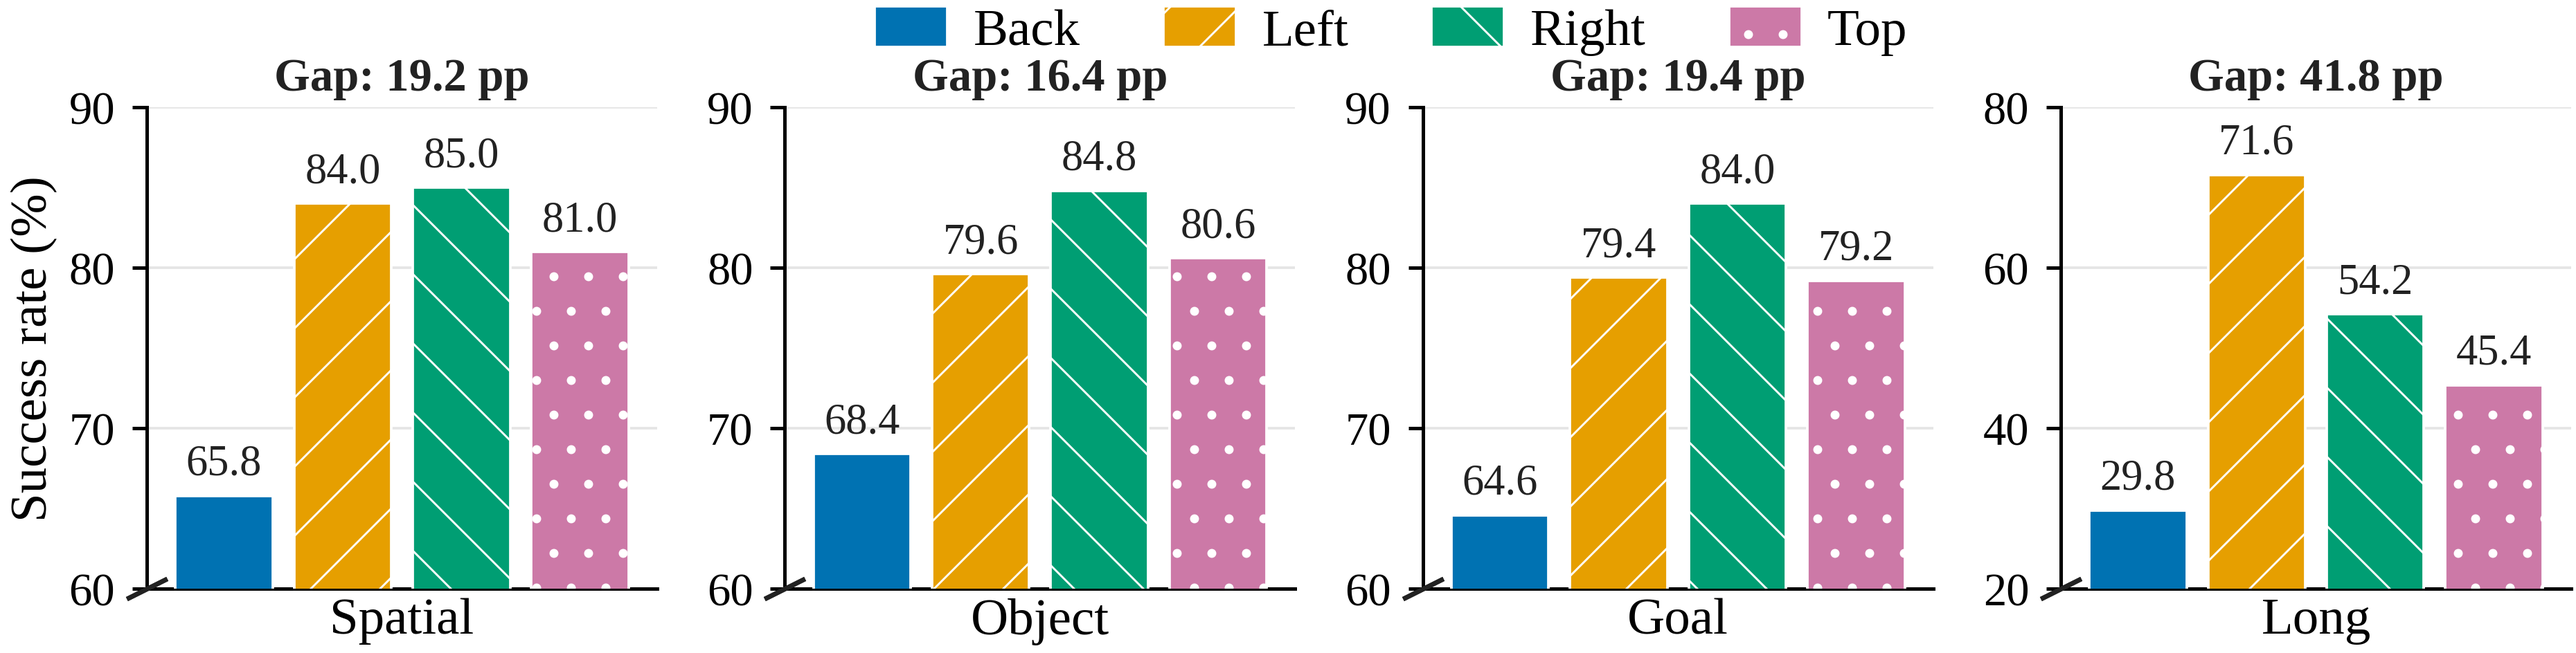
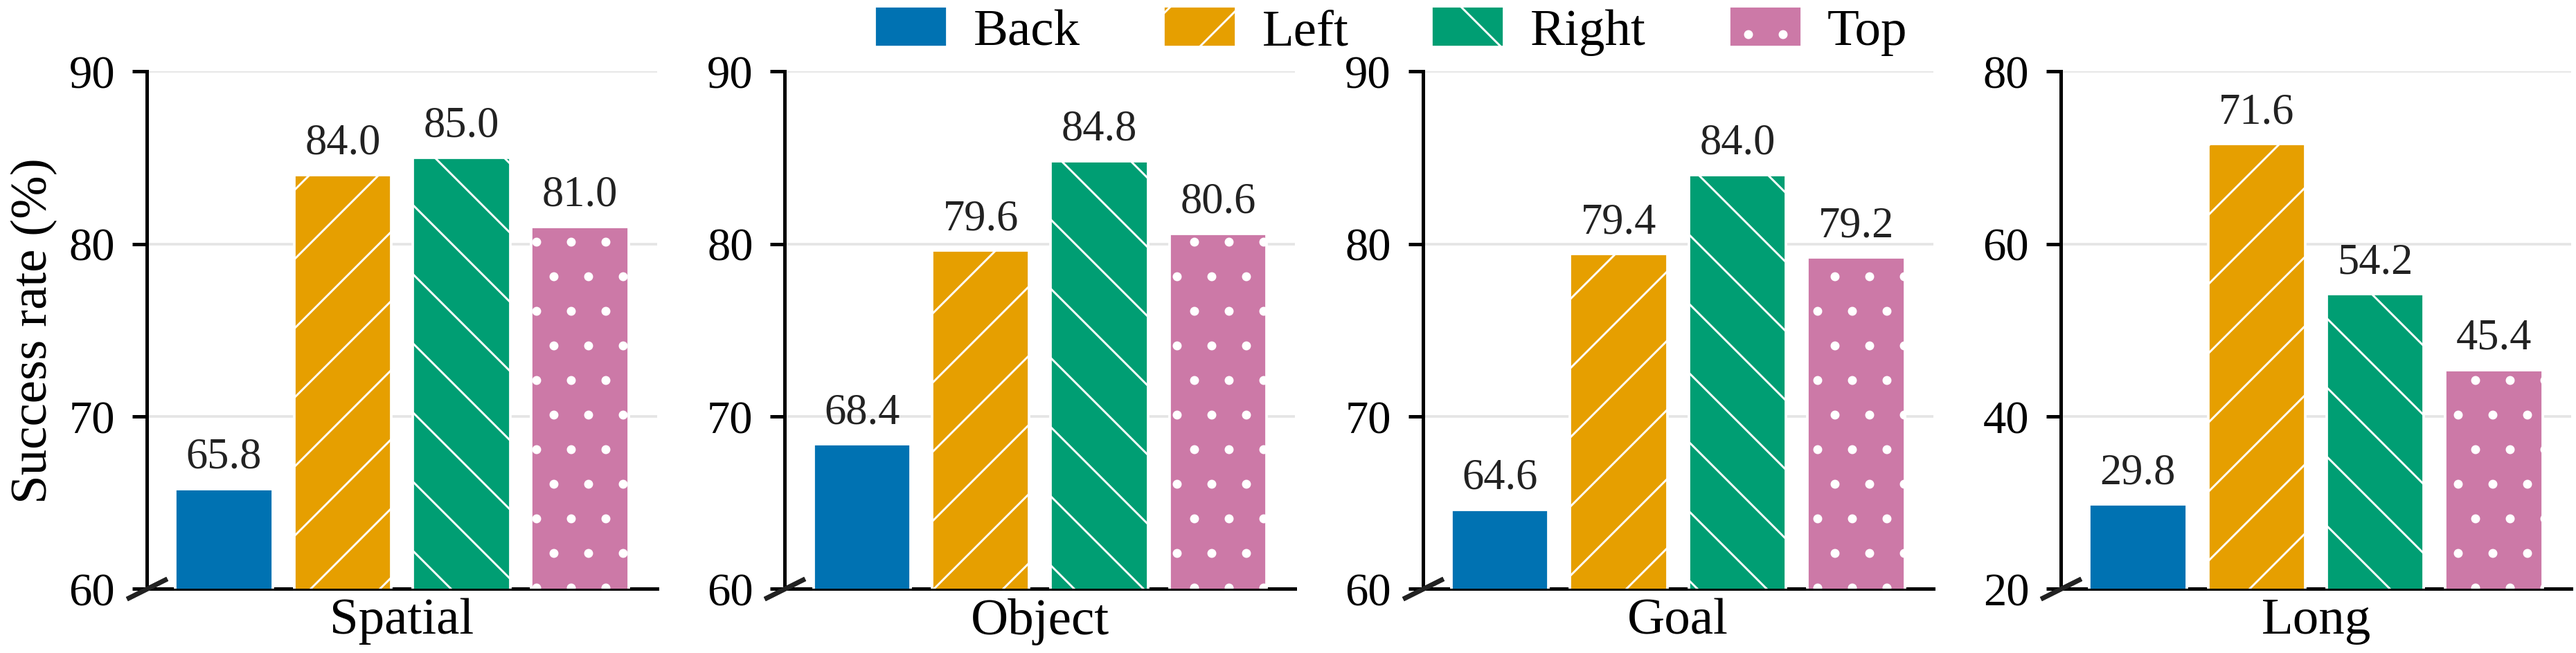
Remove gap annotations from viewpoint figure and simplify caption

diff --git a/paper/Figures/gen_fig_viewpoint_performance.py b/paper/Figures/gen_fig_viewpoint_performance.py
@@ -44,7 +44,7 @@ def main():
         }
     )
     fig, axes = plt.subplots(1, 4, figsize=(data["width_cm"] / 2.54, data["height_cm"] / 2.54))
-    fig.subplots_adjust(left=0.057, right=0.998, bottom=0.098, top=0.835, wspace=0.25)
+    fig.subplots_adjust(left=0.057, right=0.998, bottom=0.098, top=0.89, wspace=0.25)
 
     colors = ["#0072B2", "#E69F00", "#009E73", "#CC79A7"]
     hatches = ["", "//", "\\\\", ".."]
@@ -74,17 +74,6 @@ def main():
         ax.tick_params(axis="y", length=2.5, width=0.6, pad=3)
         ax.set_axisbelow(True)
         ax.grid(axis="y", color="#E5E5E5", linewidth=0.45)
-        ax.text(
-            0.5,
-            1.015,
-            f"Gap: {np.ptp(suite_rates):.1f} pp",
-            transform=ax.transAxes,
-            ha="center",
-            va="bottom",
-            fontsize=8,
-            fontweight="bold",
-            color="#222222",
-        )
         # The break mark makes the cropped baseline explicit in every panel.
         ax.plot(
             [0, 0],

diff --git a/paper/ELSP_Latex_Template.tex b/paper/ELSP_Latex_Template.tex
@@ -126,11 +126,8 @@
     \begin{figure}[H]
     \centering
     \includegraphics[width=0.9\linewidth]{Figures/Figure1_viewpoint_performance.pdf}
-    \caption{Single-view SFT performance across camera viewpoints on LIBERO
-    (500 episodes per suite). Panels magnify the observed success-rate
-    ranges using the indicated vertical scales. Gap denotes the difference
-    between the highest and lowest rates within each suite, in percentage
-    points (pp).}
+    \caption{Single-view SFT success rates across camera viewpoints on LIBERO
+    (500 episodes per suite). Panels use different vertical scales.}
     \label{fig:motivation}
     \end{figure}
 }
